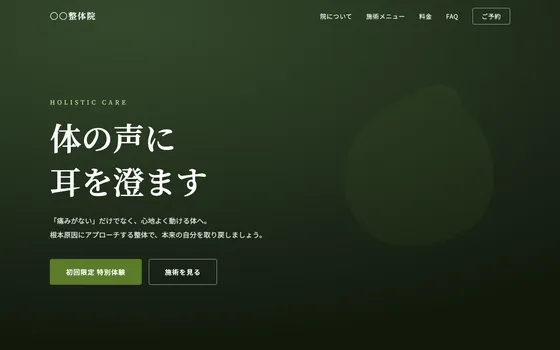
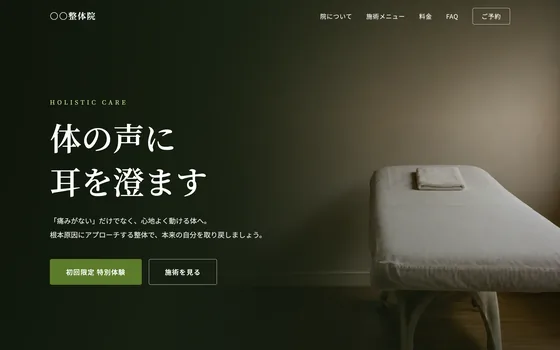
サンプルサイト8種のヒーローを実写に刷新／ギャラリー画像を16MB→780KBに／横はみ出し・コントラストを全幅で是正

diff --git a/index.html b/index.html
@@ -343,7 +343,7 @@
   </div>
   <div class="mq reveal" role="region" aria-label="制作サンプル（自動スクロール）">
     <button type="button" class="mq-toggle" id="mqToggle" aria-pressed="false"><span class="mq-toggle-ico" aria-hidden="true"></span><span class="mq-toggle-txt">一時停止</span></button>
-    <div class="mq-row mq-row--left"><div class="mq-track"><a class="mq-card" href="gallery.html" aria-label="制作イメージ：カフェ・飲食店"><img fetchpriority="low" decoding="async" src="img/mq/sample-cafe.webp" alt="カフェ・飲食店のサイト制作イメージ（LUMEN自社制作サンプル・実案件ではありません）" width="560" height="350"><span class="work-mark">SAMPLE</span></a><a class="mq-card" href="gallery.html" aria-label="制作イメージ：コーポレート・企業"><img fetchpriority="low" decoding="async" src="img/mq/tmpl-editorial.webp?v=3" alt="コーポレート・企業のサイト制作イメージ（LUMEN自社制作サンプル・実案件ではありません）" width="560" height="350"><span class="work-mark">SAMPLE</span></a><a class="mq-card" href="gallery.html" aria-label="制作イメージ：IT・スタートアップ"><img fetchpriority="low" decoding="async" src="img/mq/tmpl-tech.webp" alt="IT・スタートアップのサイト制作イメージ（LUMEN自社制作サンプル・実案件ではありません）" width="560" height="350"><span class="work-mark">SAMPLE</span></a><a class="mq-card" href="gallery.html" aria-label="制作イメージ：法律事務所"><img fetchpriority="low" decoding="async" src="img/mq/sample-law.webp" alt="法律事務所のサイト制作イメージ（LUMEN自社制作サンプル・実案件ではありません）" width="560" height="350"><span class="work-mark">SAMPLE</span></a><a class="mq-card" href="gallery.html" aria-label="制作イメージ：士業・社労士"><img fetchpriority="low" decoding="async" src="img/mq/sample-sharoushi.webp?v=4" alt="士業・社労士のサイト制作イメージ（LUMEN自社制作サンプル・実案件ではありません）" width="560" height="350"><span class="work-mark">SAMPLE</span></a><a class="mq-card" href="gallery.html" aria-label="制作イメージ：税理士・会計"><img fetchpriority="low" decoding="async" src="img/mq/tmpl-tax.webp?v=4" alt="税理士・会計のサイト制作イメージ（LUMEN自社制作サンプル・実案件ではありません）" width="560" height="350"><span class="work-mark">SAMPLE</span></a><a class="mq-card" href="gallery.html" aria-label="制作イメージ：整体・整骨院"><img fetchpriority="low" decoding="async" src="img/mq/sample-seitai.webp?v=4" alt="整体・整骨院のサイト制作イメージ（LUMEN自社制作サンプル・実案件ではありません）" width="560" height="350"><span class="work-mark">SAMPLE</span></a><a class="mq-card" href="gallery.html" aria-label="制作イメージ：フィットネス・ジム"><img fetchpriority="low" decoding="async" src="img/mq/tmpl-gym.webp?v=4" alt="フィットネス・ジムのサイト制作イメージ（LUMEN自社制作サンプル・実案件ではありません）" width="560" height="350"><span class="work-mark">SAMPLE</span></a><a class="mq-card" href="gallery.html" aria-label="制作イメージ：ヨガ・スタジオ"><img fetchpriority="low" decoding="async" src="img/mq/tmpl-yoga.webp?v=4" alt="ヨガ・スタジオのサイト制作イメージ（LUMEN自社制作サンプル・実案件ではありません）" width="560" height="350"><span class="work-mark">SAMPLE</span></a><a class="mq-card" href="gallery.html" aria-label="制作イメージ：美容室・サロン"><img fetchpriority="low" decoding="async" src="img/mq/tmpl-hair.webp?v=4" alt="美容室・サロンのサイト制作イメージ（LUMEN自社制作サンプル・実案件ではありません）" width="560" height="350"><span class="work-mark">SAMPLE</span></a><a class="mq-card" href="gallery.html" aria-label="制作イメージ：ペット・動物病院"><img fetchpriority="low" decoding="async" src="img/mq/tmpl-pet.webp?v=4" alt="ペット・動物病院のサイト制作イメージ（LUMEN自社制作サンプル・実案件ではありません）" width="560" height="350"><span class="work-mark">SAMPLE</span></a><a class="mq-card" href="gallery.html" aria-label="制作イメージ：音楽・習い事教室"><img fetchpriority="low" decoding="async" src="img/mq/sample-piano.webp" alt="音楽・習い事教室のサイト制作イメージ（LUMEN自社制作サンプル・実案件ではありません）" width="560" height="350"><span class="work-mark">SAMPLE</span></a><a class="mq-card" href="gallery.html" aria-label="制作イメージ：映像・クリエイティブ"><img fetchpriority="low" decoding="async" src="img/mq/tmpl-motion.webp?v=4" alt="映像・クリエイティブのサイト制作イメージ（LUMEN自社制作サンプル・実案件ではありません）" width="560" height="350"><span class="work-mark">SAMPLE</span></a><a class="mq-card" href="gallery.html" aria-label="制作イメージ：Web・ブランド"><img fetchpriority="low" decoding="async" src="img/mq/tmpl-webdes.webp?v=4" alt="Web・ブランドのサイト制作イメージ（LUMEN自社制作サンプル・実案件ではありません）" width="560" height="350"><span class="work-mark">SAMPLE</span></a><a class="mq-card" href="gallery.html" aria-label="制作イメージ：書道・和の教室"><img fetchpriority="low" decoding="async" src="img/mq/sample-shodo.webp" alt="書道・和の教室のサイト制作イメージ（LUMEN自社制作サンプル・実案件ではありません）" width="560" height="350"><span class="work-mark">SAMPLE</span></a><a class="mq-card" href="gallery.html" aria-hidden="true" tabindex="-1"><img fetchpriority="low" decoding="async" src="img/mq/sample-cafe.webp" alt="カフェ・飲食店のサイト制作イメージ（LUMEN自社制作サンプル・実案件ではありません）" width="560" height="350"><span class="work-mark">SAMPLE</span></a><a class="mq-card" href="gallery.html" aria-hidden="true" tabindex="-1"><img fetchpriority="low" decoding="async" src="img/mq/tmpl-editorial.webp?v=3" alt="コーポレート・企業のサイト制作イメージ（LUMEN自社制作サンプル・実案件ではありません）" width="560" height="350"><span class="work-mark">SAMPLE</span></a><a class="mq-card" href="gallery.html" aria-hidden="true" tabindex="-1"><img fetchpriority="low" decoding="async" src="img/mq/tmpl-tech.webp" alt="IT・スタートアップのサイト制作イメージ（LUMEN自社制作サンプル・実案件ではありません）" width="560" height="350"><span class="work-mark">SAMPLE</span></a><a class="mq-card" href="gallery.html" aria-hidden="true" tabindex="-1"><img fetchpriority="low" decoding="async" src="img/mq/sample-law.webp" alt="法律事務所のサイト制作イメージ（LUMEN自社制作サンプル・実案件ではありません）" width="560" height="350"><span class="work-mark">SAMPLE</span></a><a class="mq-card" href="gallery.html" aria-hidden="true" tabindex="-1"><img fetchpriority="low" decoding="async" src="img/mq/sample-sharoushi.webp?v=4" alt="士業・社労士のサイト制作イメージ（LUMEN自社制作サンプル・実案件ではありません）" width="560" height="350"><span class="work-mark">SAMPLE</span></a><a class="mq-card" href="gallery.html" aria-hidden="true" tabindex="-1"><img fetchpriority="low" decoding="async" src="img/mq/tmpl-tax.webp?v=4" alt="税理士・会計のサイト制作イメージ（LUMEN自社制作サンプル・実案件ではありません）" width="560" height="350"><span class="work-mark">SAMPLE</span></a><a class="mq-card" href="gallery.html" aria-hidden="true" tabindex="-1"><img fetchpriority="low" decoding="async" src="img/mq/sample-seitai.webp?v=4" alt="整体・整骨院のサイト制作イメージ（LUMEN自社制作サンプル・実案件ではありません）" width="560" height="350"><span class="work-mark">SAMPLE</span></a><a class="mq-card" href="gallery.html" aria-hidden="true" tabindex="-1"><img fetchpriority="low" decoding="async" src="img/mq/tmpl-gym.webp?v=4" alt="フィットネス・ジムのサイト制作イメージ（LUMEN自社制作サンプル・実案件ではありません）" width="560" height="350"><span class="work-mark">SAMPLE</span></a><a class="mq-card" href="gallery.html" aria-hidden="true" tabindex="-1"><img fetchpriority="low" decoding="async" src="img/mq/tmpl-yoga.webp?v=4" alt="ヨガ・スタジオのサイト制作イメージ（LUMEN自社制作サンプル・実案件ではありません）" width="560" height="350"><span class="work-mark">SAMPLE</span></a><a class="mq-card" href="gallery.html" aria-hidden="true" tabindex="-1"><img fetchpriority="low" decoding="async" src="img/mq/tmpl-hair.webp?v=4" alt="美容室・サロンのサイト制作イメージ（LUMEN自社制作サンプル・実案件ではありません）" width="560" height="350"><span class="work-mark">SAMPLE</span></a><a class="mq-card" href="gallery.html" aria-hidden="true" tabindex="-1"><img fetchpriority="low" decoding="async" src="img/mq/tmpl-pet.webp?v=4" alt="ペット・動物病院のサイト制作イメージ（LUMEN自社制作サンプル・実案件ではありません）" width="560" height="350"><span class="work-mark">SAMPLE</span></a><a class="mq-card" href="gallery.html" aria-hidden="true" tabindex="-1"><img fetchpriority="low" decoding="async" src="img/mq/sample-piano.webp" alt="音楽・習い事教室のサイト制作イメージ（LUMEN自社制作サンプル・実案件ではありません）" width="560" height="350"><span class="work-mark">SAMPLE</span></a><a class="mq-card" href="gallery.html" aria-hidden="true" tabindex="-1"><img fetchpriority="low" decoding="async" src="img/mq/tmpl-motion.webp?v=4" alt="映像・クリエイティブのサイト制作イメージ（LUMEN自社制作サンプル・実案件ではありません）" width="560" height="350"><span class="work-mark">SAMPLE</span></a><a class="mq-card" href="gallery.html" aria-hidden="true" tabindex="-1"><img fetchpriority="low" decoding="async" src="img/mq/tmpl-webdes.webp?v=4" alt="Web・ブランドのサイト制作イメージ（LUMEN自社制作サンプル・実案件ではありません）" width="560" height="350"><span class="work-mark">SAMPLE</span></a><a class="mq-card" href="gallery.html" aria-hidden="true" tabindex="-1"><img fetchpriority="low" decoding="async" src="img/mq/sample-shodo.webp" alt="書道・和の教室のサイト制作イメージ（LUMEN自社制作サンプル・実案件ではありません）" width="560" height="350"><span class="work-mark">SAMPLE</span></a></div></div>
+    <div class="mq-row mq-row--left"><div class="mq-track"><a class="mq-card" href="gallery.html" aria-label="制作イメージ：カフェ・飲食店"><img fetchpriority="low" decoding="async" src="img/mq/sample-cafe.webp" alt="カフェ・飲食店のサイト制作イメージ（LUMEN自社制作サンプル・実案件ではありません）" width="560" height="350"><span class="work-mark">SAMPLE</span></a><a class="mq-card" href="gallery.html" aria-label="制作イメージ：コーポレート・企業"><img fetchpriority="low" decoding="async" src="img/mq/tmpl-editorial.webp?v=3" alt="コーポレート・企業のサイト制作イメージ（LUMEN自社制作サンプル・実案件ではありません）" width="560" height="350"><span class="work-mark">SAMPLE</span></a><a class="mq-card" href="gallery.html" aria-label="制作イメージ：IT・スタートアップ"><img fetchpriority="low" decoding="async" src="img/mq/tmpl-tech.webp" alt="IT・スタートアップのサイト制作イメージ（LUMEN自社制作サンプル・実案件ではありません）" width="560" height="350"><span class="work-mark">SAMPLE</span></a><a class="mq-card" href="gallery.html" aria-label="制作イメージ：法律事務所"><img fetchpriority="low" decoding="async" src="img/mq/sample-law.webp" alt="法律事務所のサイト制作イメージ（LUMEN自社制作サンプル・実案件ではありません）" width="560" height="350"><span class="work-mark">SAMPLE</span></a><a class="mq-card" href="gallery.html" aria-label="制作イメージ：士業・社労士"><img fetchpriority="low" decoding="async" src="img/mq/sample-sharoushi.webp?v=4" alt="士業・社労士のサイト制作イメージ（LUMEN自社制作サンプル・実案件ではありません）" width="560" height="350"><span class="work-mark">SAMPLE</span></a><a class="mq-card" href="gallery.html" aria-label="制作イメージ：税理士・会計"><img fetchpriority="low" decoding="async" src="img/mq/tmpl-tax.webp?v=4" alt="税理士・会計のサイト制作イメージ（LUMEN自社制作サンプル・実案件ではありません）" width="560" height="350"><span class="work-mark">SAMPLE</span></a><a class="mq-card" href="gallery.html" aria-label="制作イメージ：整体・整骨院"><img fetchpriority="low" decoding="async" src="img/mq/sample-seitai.webp?v=5" alt="整体・整骨院のサイト制作イメージ（LUMEN自社制作サンプル・実案件ではありません）" width="560" height="350"><span class="work-mark">SAMPLE</span></a><a class="mq-card" href="gallery.html" aria-label="制作イメージ：フィットネス・ジム"><img fetchpriority="low" decoding="async" src="img/mq/tmpl-gym.webp?v=5" alt="フィットネス・ジムのサイト制作イメージ（LUMEN自社制作サンプル・実案件ではありません）" width="560" height="350"><span class="work-mark">SAMPLE</span></a><a class="mq-card" href="gallery.html" aria-label="制作イメージ：ヨガ・スタジオ"><img fetchpriority="low" decoding="async" src="img/mq/tmpl-yoga.webp?v=5" alt="ヨガ・スタジオのサイト制作イメージ（LUMEN自社制作サンプル・実案件ではありません）" width="560" height="350"><span class="work-mark">SAMPLE</span></a><a class="mq-card" href="gallery.html" aria-label="制作イメージ：美容室・サロン"><img fetchpriority="low" decoding="async" src="img/mq/tmpl-hair.webp?v=5" alt="美容室・サロンのサイト制作イメージ（LUMEN自社制作サンプル・実案件ではありません）" width="560" height="350"><span class="work-mark">SAMPLE</span></a><a class="mq-card" href="gallery.html" aria-label="制作イメージ：ペット・動物病院"><img fetchpriority="low" decoding="async" src="img/mq/tmpl-pet.webp?v=5" alt="ペット・動物病院のサイト制作イメージ（LUMEN自社制作サンプル・実案件ではありません）" width="560" height="350"><span class="work-mark">SAMPLE</span></a><a class="mq-card" href="gallery.html" aria-label="制作イメージ：音楽・習い事教室"><img fetchpriority="low" decoding="async" src="img/mq/sample-piano.webp" alt="音楽・習い事教室のサイト制作イメージ（LUMEN自社制作サンプル・実案件ではありません）" width="560" height="350"><span class="work-mark">SAMPLE</span></a><a class="mq-card" href="gallery.html" aria-label="制作イメージ：映像・クリエイティブ"><img fetchpriority="low" decoding="async" src="img/mq/tmpl-motion.webp?v=4" alt="映像・クリエイティブのサイト制作イメージ（LUMEN自社制作サンプル・実案件ではありません）" width="560" height="350"><span class="work-mark">SAMPLE</span></a><a class="mq-card" href="gallery.html" aria-label="制作イメージ：Web・ブランド"><img fetchpriority="low" decoding="async" src="img/mq/tmpl-webdes.webp?v=4" alt="Web・ブランドのサイト制作イメージ（LUMEN自社制作サンプル・実案件ではありません）" width="560" height="350"><span class="work-mark">SAMPLE</span></a><a class="mq-card" href="gallery.html" aria-label="制作イメージ：書道・和の教室"><img fetchpriority="low" decoding="async" src="img/mq/sample-shodo.webp" alt="書道・和の教室のサイト制作イメージ（LUMEN自社制作サンプル・実案件ではありません）" width="560" height="350"><span class="work-mark">SAMPLE</span></a><a class="mq-card" href="gallery.html" aria-hidden="true" tabindex="-1"><img fetchpriority="low" decoding="async" src="img/mq/sample-cafe.webp" alt="カフェ・飲食店のサイト制作イメージ（LUMEN自社制作サンプル・実案件ではありません）" width="560" height="350"><span class="work-mark">SAMPLE</span></a><a class="mq-card" href="gallery.html" aria-hidden="true" tabindex="-1"><img fetchpriority="low" decoding="async" src="img/mq/tmpl-editorial.webp?v=3" alt="コーポレート・企業のサイト制作イメージ（LUMEN自社制作サンプル・実案件ではありません）" width="560" height="350"><span class="work-mark">SAMPLE</span></a><a class="mq-card" href="gallery.html" aria-hidden="true" tabindex="-1"><img fetchpriority="low" decoding="async" src="img/mq/tmpl-tech.webp" alt="IT・スタートアップのサイト制作イメージ（LUMEN自社制作サンプル・実案件ではありません）" width="560" height="350"><span class="work-mark">SAMPLE</span></a><a class="mq-card" href="gallery.html" aria-hidden="true" tabindex="-1"><img fetchpriority="low" decoding="async" src="img/mq/sample-law.webp" alt="法律事務所のサイト制作イメージ（LUMEN自社制作サンプル・実案件ではありません）" width="560" height="350"><span class="work-mark">SAMPLE</span></a><a class="mq-card" href="gallery.html" aria-hidden="true" tabindex="-1"><img fetchpriority="low" decoding="async" src="img/mq/sample-sharoushi.webp?v=4" alt="士業・社労士のサイト制作イメージ（LUMEN自社制作サンプル・実案件ではありません）" width="560" height="350"><span class="work-mark">SAMPLE</span></a><a class="mq-card" href="gallery.html" aria-hidden="true" tabindex="-1"><img fetchpriority="low" decoding="async" src="img/mq/tmpl-tax.webp?v=4" alt="税理士・会計のサイト制作イメージ（LUMEN自社制作サンプル・実案件ではありません）" width="560" height="350"><span class="work-mark">SAMPLE</span></a><a class="mq-card" href="gallery.html" aria-hidden="true" tabindex="-1"><img fetchpriority="low" decoding="async" src="img/mq/sample-seitai.webp?v=5" alt="整体・整骨院のサイト制作イメージ（LUMEN自社制作サンプル・実案件ではありません）" width="560" height="350"><span class="work-mark">SAMPLE</span></a><a class="mq-card" href="gallery.html" aria-hidden="true" tabindex="-1"><img fetchpriority="low" decoding="async" src="img/mq/tmpl-gym.webp?v=5" alt="フィットネス・ジムのサイト制作イメージ（LUMEN自社制作サンプル・実案件ではありません）" width="560" height="350"><span class="work-mark">SAMPLE</span></a><a class="mq-card" href="gallery.html" aria-hidden="true" tabindex="-1"><img fetchpriority="low" decoding="async" src="img/mq/tmpl-yoga.webp?v=5" alt="ヨガ・スタジオのサイト制作イメージ（LUMEN自社制作サンプル・実案件ではありません）" width="560" height="350"><span class="work-mark">SAMPLE</span></a><a class="mq-card" href="gallery.html" aria-hidden="true" tabindex="-1"><img fetchpriority="low" decoding="async" src="img/mq/tmpl-hair.webp?v=5" alt="美容室・サロンのサイト制作イメージ（LUMEN自社制作サンプル・実案件ではありません）" width="560" height="350"><span class="work-mark">SAMPLE</span></a><a class="mq-card" href="gallery.html" aria-hidden="true" tabindex="-1"><img fetchpriority="low" decoding="async" src="img/mq/tmpl-pet.webp?v=5" alt="ペット・動物病院のサイト制作イメージ（LUMEN自社制作サンプル・実案件ではありません）" width="560" height="350"><span class="work-mark">SAMPLE</span></a><a class="mq-card" href="gallery.html" aria-hidden="true" tabindex="-1"><img fetchpriority="low" decoding="async" src="img/mq/sample-piano.webp" alt="音楽・習い事教室のサイト制作イメージ（LUMEN自社制作サンプル・実案件ではありません）" width="560" height="350"><span class="work-mark">SAMPLE</span></a><a class="mq-card" href="gallery.html" aria-hidden="true" tabindex="-1"><img fetchpriority="low" decoding="async" src="img/mq/tmpl-motion.webp?v=4" alt="映像・クリエイティブのサイト制作イメージ（LUMEN自社制作サンプル・実案件ではありません）" width="560" height="350"><span class="work-mark">SAMPLE</span></a><a class="mq-card" href="gallery.html" aria-hidden="true" tabindex="-1"><img fetchpriority="low" decoding="async" src="img/mq/tmpl-webdes.webp?v=4" alt="Web・ブランドのサイト制作イメージ（LUMEN自社制作サンプル・実案件ではありません）" width="560" height="350"><span class="work-mark">SAMPLE</span></a><a class="mq-card" href="gallery.html" aria-hidden="true" tabindex="-1"><img fetchpriority="low" decoding="async" src="img/mq/sample-shodo.webp" alt="書道・和の教室のサイト制作イメージ（LUMEN自社制作サンプル・実案件ではありません）" width="560" height="350"><span class="work-mark">SAMPLE</span></a></div></div>
     <div class="mq-row mq-row--right"><div class="mq-track"><a class="mq-card mq-card--live" href="works/hero-water.html" target="_blank" rel="noopener" aria-label="動く演出：水面と光"><img fetchpriority="low" decoding="async" src="img/mq/hero-water.webp" alt="水面と光の動くヒーロー演出（LUMEN自社制作サンプル・実案件ではありません）" width="560" height="350"><span class="mq-live">LIVE</span><span class="work-mark">SAMPLE</span></a><a class="mq-card mq-card--live" href="works/hero-aurora.html" target="_blank" rel="noopener" aria-label="動く演出：オーロラ"><img fetchpriority="low" decoding="async" src="img/mq/hero-aurora.webp" alt="オーロラの動くヒーロー演出（LUMEN自社制作サンプル・実案件ではありません）" width="560" height="350"><span class="mq-live">LIVE</span><span class="work-mark">SAMPLE</span></a><a class="mq-card mq-card--live" href="works/hero-geo.html" target="_blank" rel="noopener" aria-label="動く演出：浮遊する立体"><img fetchpriority="low" decoding="async" src="img/mq/hero-geo.webp" alt="浮遊する立体の動くヒーロー演出（LUMEN自社制作サンプル・実案件ではありません）" width="560" height="350"><span class="mq-live">LIVE</span><span class="work-mark">SAMPLE</span></a><a class="mq-card mq-card--live" href="works/hero-glass.html" target="_blank" rel="noopener" aria-label="動く演出：ガラスの屈折"><img fetchpriority="low" decoding="async" src="img/mq/hero-glass.webp" alt="ガラスの屈折の動くヒーロー演出（LUMEN自社制作サンプル・実案件ではありません）" width="560" height="350"><span class="mq-live">LIVE</span><span class="work-mark">SAMPLE</span></a><a class="mq-card mq-card--live" href="works/hero-grid.html" target="_blank" rel="noopener" aria-label="動く演出：奥行きグリッド"><img fetchpriority="low" decoding="async" src="img/mq/hero-grid.webp" alt="奥行きグリッドの動くヒーロー演出（LUMEN自社制作サンプル・実案件ではありません）" width="560" height="350"><span class="mq-live">LIVE</span><span class="work-mark">SAMPLE</span></a><a class="mq-card mq-card--live" href="works/hero-particles.html" target="_blank" rel="noopener" aria-label="動く演出：フロウ・フィールド"><img fetchpriority="low" decoding="async" src="img/mq/hero-particles.webp" alt="フロウ・フィールドの動くヒーロー演出（LUMEN自社制作サンプル・実案件ではありません）" width="560" height="350"><span class="mq-live">LIVE</span><span class="work-mark">SAMPLE</span></a><a class="mq-card mq-card--live" href="works/hero-crystal.html" target="_blank" rel="noopener" aria-label="動く演出：クリスタル"><img fetchpriority="low" decoding="async" src="img/mq/hero-crystal.webp" alt="クリスタルの動くヒーロー演出（LUMEN自社制作サンプル・実案件ではありません）" width="560" height="350"><span class="mq-live">LIVE</span><span class="work-mark">SAMPLE</span></a><a class="mq-card mq-card--live" href="works/hero-caustics.html" target="_blank" rel="noopener" aria-label="動く演出：コースティクス"><img fetchpriority="low" decoding="async" src="img/mq/hero-caustics.webp" alt="コースティクスの動くヒーロー演出（LUMEN自社制作サンプル・実案件ではありません）" width="560" height="350"><span class="mq-live">LIVE</span><span class="work-mark">SAMPLE</span></a><a class="mq-card mq-card--live" href="works/hero-carbon.html" target="_blank" rel="noopener" aria-label="動く演出：カーボンメッシュ"><img fetchpriority="low" decoding="async" src="img/mq/hero-carbon.webp" alt="カーボンメッシュの動くヒーロー演出（LUMEN自社制作サンプル・実案件ではありません）" width="560" height="350"><span class="mq-live">LIVE</span><span class="work-mark">SAMPLE</span></a><a class="mq-card mq-card--live" href="works/hero-light.html" target="_blank" rel="noopener" aria-label="動く演出：ライト・グラデーション"><img fetchpriority="low" decoding="async" src="img/mq/hero-light.webp" alt="ライト・グラデーションの動くヒーロー演出（LUMEN自社制作サンプル・実案件ではありません）" width="560" height="350"><span class="mq-live">LIVE</span><span class="work-mark">SAMPLE</span></a><a class="mq-card mq-card--live" href="works/hero-water.html" target="_blank" rel="noopener" aria-hidden="true" tabindex="-1"><img fetchpriority="low" decoding="async" src="img/mq/hero-water.webp" alt="水面と光の動くヒーロー演出（LUMEN自社制作サンプル・実案件ではありません）" width="560" height="350"><span class="mq-live">LIVE</span><span class="work-mark">SAMPLE</span></a><a class="mq-card mq-card--live" href="works/hero-aurora.html" target="_blank" rel="noopener" aria-hidden="true" tabindex="-1"><img fetchpriority="low" decoding="async" src="img/mq/hero-aurora.webp" alt="オーロラの動くヒーロー演出（LUMEN自社制作サンプル・実案件ではありません）" width="560" height="350"><span class="mq-live">LIVE</span><span class="work-mark">SAMPLE</span></a><a class="mq-card mq-card--live" href="works/hero-geo.html" target="_blank" rel="noopener" aria-hidden="true" tabindex="-1"><img fetchpriority="low" decoding="async" src="img/mq/hero-geo.webp" alt="浮遊する立体の動くヒーロー演出（LUMEN自社制作サンプル・実案件ではありません）" width="560" height="350"><span class="mq-live">LIVE</span><span class="work-mark">SAMPLE</span></a><a class="mq-card mq-card--live" href="works/hero-glass.html" target="_blank" rel="noopener" aria-hidden="true" tabindex="-1"><img fetchpriority="low" decoding="async" src="img/mq/hero-glass.webp" alt="ガラスの屈折の動くヒーロー演出（LUMEN自社制作サンプル・実案件ではありません）" width="560" height="350"><span class="mq-live">LIVE</span><span class="work-mark">SAMPLE</span></a><a class="mq-card mq-card--live" href="works/hero-grid.html" target="_blank" rel="noopener" aria-hidden="true" tabindex="-1"><img fetchpriority="low" decoding="async" src="img/mq/hero-grid.webp" alt="奥行きグリッドの動くヒーロー演出（LUMEN自社制作サンプル・実案件ではありません）" width="560" height="350"><span class="mq-live">LIVE</span><span class="work-mark">SAMPLE</span></a><a class="mq-card mq-card--live" href="works/hero-particles.html" target="_blank" rel="noopener" aria-hidden="true" tabindex="-1"><img fetchpriority="low" decoding="async" src="img/mq/hero-particles.webp" alt="フロウ・フィールドの動くヒーロー演出（LUMEN自社制作サンプル・実案件ではありません）" width="560" height="350"><span class="mq-live">LIVE</span><span class="work-mark">SAMPLE</span></a><a class="mq-card mq-card--live" href="works/hero-crystal.html" target="_blank" rel="noopener" aria-hidden="true" tabindex="-1"><img fetchpriority="low" decoding="async" src="img/mq/hero-crystal.webp" alt="クリスタルの動くヒーロー演出（LUMEN自社制作サンプル・実案件ではありません）" width="560" height="350"><span class="mq-live">LIVE</span><span class="work-mark">SAMPLE</span></a><a class="mq-card mq-card--live" href="works/hero-caustics.html" target="_blank" rel="noopener" aria-hidden="true" tabindex="-1"><img fetchpriority="low" decoding="async" src="img/mq/hero-caustics.webp" alt="コースティクスの動くヒーロー演出（LUMEN自社制作サンプル・実案件ではありません）" width="560" height="350"><span class="mq-live">LIVE</span><span class="work-mark">SAMPLE</span></a><a class="mq-card mq-card--live" href="works/hero-carbon.html" target="_blank" rel="noopener" aria-hidden="true" tabindex="-1"><img fetchpriority="low" decoding="async" src="img/mq/hero-carbon.webp" alt="カーボンメッシュの動くヒーロー演出（LUMEN自社制作サンプル・実案件ではありません）" width="560" height="350"><span class="mq-live">LIVE</span><span class="work-mark">SAMPLE</span></a><a class="mq-card mq-card--live" href="works/hero-light.html" target="_blank" rel="noopener" aria-hidden="true" tabindex="-1"><img fetchpriority="low" decoding="async" src="img/mq/hero-light.webp" alt="ライト・グラデーションの動くヒーロー演出（LUMEN自社制作サンプル・実案件ではありません）" width="560" height="350"><span class="mq-live">LIVE</span><span class="work-mark">SAMPLE</span></a></div></div>
   </div>
   <div class="wrap">

diff --git a/gallery.html b/gallery.html
@@ -16,7 +16,7 @@
   
   <script defer src="js/analytics.js"></script>
   <link rel="stylesheet" href="css/style.css">
-  <link rel="preload" as="image" href="img/samples/tmpl-editorial.png?v=3" fetchpriority="high">
+  <link rel="preload" as="image" href="img/samples/tmpl-editorial.webp?v=3" fetchpriority="high">
   <!-- OGP -->
   <meta property="og:type" content="website">
   <meta property="og:site_name" content="LUMEN">
@@ -115,21 +115,21 @@
       <span>全15種・カードは一例です。ご希望の業種がなくても対応できます</span>
     </div>
     <div class="works-grid reveal">
-      <figure class="work-card"><img src="img/samples/sample-cafe.png?v=2" alt="カフェ・飲食店のサイト制作イメージ（LUMEN自社制作サンプル・実案件ではありません）" loading="lazy" width="1280" height="800"><span class="work-mark">SAMPLE</span><figcaption class="work-cap"><b>カフェ・飲食店</b><span>Cafe &amp; Dining</span></figcaption></figure>
-      <figure class="work-card"><img src="img/samples/tmpl-editorial.png?v=3" alt="コーポレート・企業サイトの制作イメージ（LUMEN自社制作サンプル・実案件ではありません）" loading="lazy" width="1280" height="800"><span class="work-mark">SAMPLE</span><figcaption class="work-cap"><b>コーポレート・企業</b><span>Corporate</span></figcaption></figure>
-      <figure class="work-card"><img src="img/samples/tmpl-tech.png" alt="IT・スタートアップのサイト制作イメージ（LUMEN自社制作サンプル・実案件ではありません）" loading="lazy" width="1280" height="800"><span class="work-mark">SAMPLE</span><figcaption class="work-cap"><b>IT・スタートアップ</b><span>Tech</span></figcaption></figure>
-      <figure class="work-card"><img src="img/samples/sample-law.png" alt="法律事務所のサイト制作イメージ（LUMEN自社制作サンプル・実案件ではありません）" loading="lazy" width="1280" height="800"><span class="work-mark">SAMPLE</span><figcaption class="work-cap"><b>法律事務所</b><span>Law Office</span></figcaption></figure>
-      <figure class="work-card"><img src="img/samples/sample-sharoushi.png?v=4" alt="社労士・士業のサイト制作イメージ（LUMEN自社制作サンプル・実案件ではありません）" loading="lazy" width="1280" height="800"><span class="work-mark">SAMPLE</span><figcaption class="work-cap"><b>士業・社労士</b><span>Professional</span></figcaption></figure>
-      <figure class="work-card"><img src="img/samples/tmpl-tax.png?v=4" alt="税理士・会計事務所のサイト制作イメージ（LUMEN自社制作サンプル・実案件ではありません）" loading="lazy" width="1280" height="800"><span class="work-mark">SAMPLE</span><figcaption class="work-cap"><b>税理士・会計</b><span>Accounting</span></figcaption></figure>
-      <figure class="work-card"><img src="img/samples/sample-seitai.png?v=4" alt="整体・整骨院のサイト制作イメージ（LUMEN自社制作サンプル・実案件ではありません）" loading="lazy" width="1280" height="800"><span class="work-mark">SAMPLE</span><figcaption class="work-cap"><b>整体・整骨院</b><span>Wellness</span></figcaption></figure>
-      <figure class="work-card"><img src="img/samples/tmpl-gym.png?v=4" alt="フィットネス・ジムのサイト制作イメージ（LUMEN自社制作サンプル・実案件ではありません）" loading="lazy" width="1280" height="800"><span class="work-mark">SAMPLE</span><figcaption class="work-cap"><b>フィットネス・ジム</b><span>Fitness</span></figcaption></figure>
-      <figure class="work-card"><img src="img/samples/tmpl-yoga.png?v=4" alt="ヨガ・スタジオのサイト制作イメージ（LUMEN自社制作サンプル・実案件ではありません）" loading="lazy" width="1280" height="800"><span class="work-mark">SAMPLE</span><figcaption class="work-cap"><b>ヨガ・スタジオ</b><span>Yoga</span></figcaption></figure>
-      <figure class="work-card"><img src="img/samples/tmpl-hair.png?v=4" alt="美容室・サロンのサイト制作イメージ（LUMEN自社制作サンプル・実案件ではありません）" loading="lazy" width="1280" height="800"><span class="work-mark">SAMPLE</span><figcaption class="work-cap"><b>美容室・サロン</b><span>Beauty</span></figcaption></figure>
-      <figure class="work-card"><img src="img/samples/tmpl-pet.png?v=4" alt="ペット・動物病院のサイト制作イメージ（LUMEN自社制作サンプル・実案件ではありません）" loading="lazy" width="1280" height="800"><span class="work-mark">SAMPLE</span><figcaption class="work-cap"><b>ペット・動物病院</b><span>Pet Care</span></figcaption></figure>
-      <figure class="work-card"><img src="img/samples/sample-piano.png?v=2" alt="音楽・習い事教室のサイト制作イメージ（LUMEN自社制作サンプル・実案件ではありません）" loading="lazy" width="1280" height="800"><span class="work-mark">SAMPLE</span><figcaption class="work-cap"><b>音楽・習い事教室</b><span>Music</span></figcaption></figure>
-      <figure class="work-card"><img src="img/samples/tmpl-motion.png?v=4" alt="映像・クリエイティブのサイト制作イメージ（LUMEN自社制作サンプル・実案件ではありません）" loading="lazy" width="1280" height="800"><span class="work-mark">SAMPLE</span><figcaption class="work-cap"><b>映像・クリエイティブ</b><span>Creative</span></figcaption></figure>
-      <figure class="work-card"><img src="img/samples/tmpl-webdes.png?v=4" alt="Web・ブランドサイトの制作イメージ（LUMEN自社制作サンプル・実案件ではありません）" loading="lazy" width="1280" height="800"><span class="work-mark">SAMPLE</span><figcaption class="work-cap"><b>Web・ブランド</b><span>Brand</span></figcaption></figure>
-      <figure class="work-card"><img src="img/samples/sample-shodo.png" alt="書道・和の教室のサイト制作イメージ（LUMEN自社制作サンプル・実案件ではありません）" loading="lazy" width="1280" height="800"><span class="work-mark">SAMPLE</span><figcaption class="work-cap"><b>書道・和の教室</b><span>Japanese</span></figcaption></figure>
+      <figure class="work-card"><img src="img/samples/sample-cafe.webp?v=2" alt="カフェ・飲食店のサイト制作イメージ（LUMEN自社制作サンプル・実案件ではありません）" loading="lazy" width="1280" height="800"><span class="work-mark">SAMPLE</span><figcaption class="work-cap"><b>カフェ・飲食店</b><span>Cafe &amp; Dining</span></figcaption></figure>
+      <figure class="work-card"><img src="img/samples/tmpl-editorial.webp?v=3" alt="コーポレート・企業サイトの制作イメージ（LUMEN自社制作サンプル・実案件ではありません）" loading="lazy" width="1280" height="800"><span class="work-mark">SAMPLE</span><figcaption class="work-cap"><b>コーポレート・企業</b><span>Corporate</span></figcaption></figure>
+      <figure class="work-card"><img src="img/samples/tmpl-tech.webp" alt="IT・スタートアップのサイト制作イメージ（LUMEN自社制作サンプル・実案件ではありません）" loading="lazy" width="1280" height="800"><span class="work-mark">SAMPLE</span><figcaption class="work-cap"><b>IT・スタートアップ</b><span>Tech</span></figcaption></figure>
+      <figure class="work-card"><img src="img/samples/sample-law.webp" alt="法律事務所のサイト制作イメージ（LUMEN自社制作サンプル・実案件ではありません）" loading="lazy" width="1280" height="800"><span class="work-mark">SAMPLE</span><figcaption class="work-cap"><b>法律事務所</b><span>Law Office</span></figcaption></figure>
+      <figure class="work-card"><img src="img/samples/sample-sharoushi.webp?v=4" alt="社労士・士業のサイト制作イメージ（LUMEN自社制作サンプル・実案件ではありません）" loading="lazy" width="1280" height="800"><span class="work-mark">SAMPLE</span><figcaption class="work-cap"><b>士業・社労士</b><span>Professional</span></figcaption></figure>
+      <figure class="work-card"><img src="img/samples/tmpl-tax.webp?v=4" alt="税理士・会計事務所のサイト制作イメージ（LUMEN自社制作サンプル・実案件ではありません）" loading="lazy" width="1280" height="800"><span class="work-mark">SAMPLE</span><figcaption class="work-cap"><b>税理士・会計</b><span>Accounting</span></figcaption></figure>
+      <figure class="work-card"><img src="img/samples/sample-seitai.webp?v=5" alt="整体・整骨院のサイト制作イメージ（LUMEN自社制作サンプル・実案件ではありません）" loading="lazy" width="1280" height="800"><span class="work-mark">SAMPLE</span><figcaption class="work-cap"><b>整体・整骨院</b><span>Wellness</span></figcaption></figure>
+      <figure class="work-card"><img src="img/samples/tmpl-gym.webp?v=5" alt="フィットネス・ジムのサイト制作イメージ（LUMEN自社制作サンプル・実案件ではありません）" loading="lazy" width="1280" height="800"><span class="work-mark">SAMPLE</span><figcaption class="work-cap"><b>フィットネス・ジム</b><span>Fitness</span></figcaption></figure>
+      <figure class="work-card"><img src="img/samples/tmpl-yoga.webp?v=5" alt="ヨガ・スタジオのサイト制作イメージ（LUMEN自社制作サンプル・実案件ではありません）" loading="lazy" width="1280" height="800"><span class="work-mark">SAMPLE</span><figcaption class="work-cap"><b>ヨガ・スタジオ</b><span>Yoga</span></figcaption></figure>
+      <figure class="work-card"><img src="img/samples/tmpl-hair.webp?v=5" alt="美容室・サロンのサイト制作イメージ（LUMEN自社制作サンプル・実案件ではありません）" loading="lazy" width="1280" height="800"><span class="work-mark">SAMPLE</span><figcaption class="work-cap"><b>美容室・サロン</b><span>Beauty</span></figcaption></figure>
+      <figure class="work-card"><img src="img/samples/tmpl-pet.webp?v=5" alt="ペット・動物病院のサイト制作イメージ（LUMEN自社制作サンプル・実案件ではありません）" loading="lazy" width="1280" height="800"><span class="work-mark">SAMPLE</span><figcaption class="work-cap"><b>ペット・動物病院</b><span>Pet Care</span></figcaption></figure>
+      <figure class="work-card"><img src="img/samples/sample-piano.webp?v=2" alt="音楽・習い事教室のサイト制作イメージ（LUMEN自社制作サンプル・実案件ではありません）" loading="lazy" width="1280" height="800"><span class="work-mark">SAMPLE</span><figcaption class="work-cap"><b>音楽・習い事教室</b><span>Music</span></figcaption></figure>
+      <figure class="work-card"><img src="img/samples/tmpl-motion.webp?v=4" alt="映像・クリエイティブのサイト制作イメージ（LUMEN自社制作サンプル・実案件ではありません）" loading="lazy" width="1280" height="800"><span class="work-mark">SAMPLE</span><figcaption class="work-cap"><b>映像・クリエイティブ</b><span>Creative</span></figcaption></figure>
+      <figure class="work-card"><img src="img/samples/tmpl-webdes.webp?v=4" alt="Web・ブランドサイトの制作イメージ（LUMEN自社制作サンプル・実案件ではありません）" loading="lazy" width="1280" height="800"><span class="work-mark">SAMPLE</span><figcaption class="work-cap"><b>Web・ブランド</b><span>Brand</span></figcaption></figure>
+      <figure class="work-card"><img src="img/samples/sample-shodo.webp" alt="書道・和の教室のサイト制作イメージ（LUMEN自社制作サンプル・実案件ではありません）" loading="lazy" width="1280" height="800"><span class="work-mark">SAMPLE</span><figcaption class="work-cap"><b>書道・和の教室</b><span>Japanese</span></figcaption></figure>
     </div>
     <p style="font-size:.85rem;color:var(--muted);margin-top:18px">※ すべてLUMEN制作のオリジナルデザインサンプルです（実案件の納品物ではありません）。デザインは一例で、業種・ブランドに合わせて一から制作します。無断転載・複製を禁じます。</p>
   </div>
